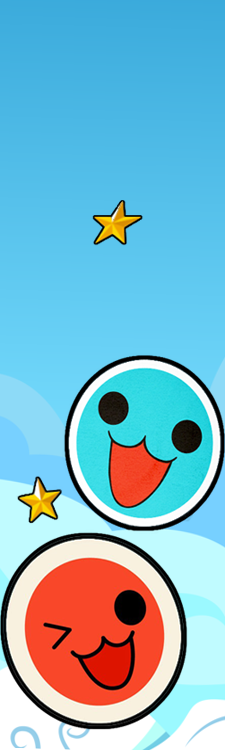
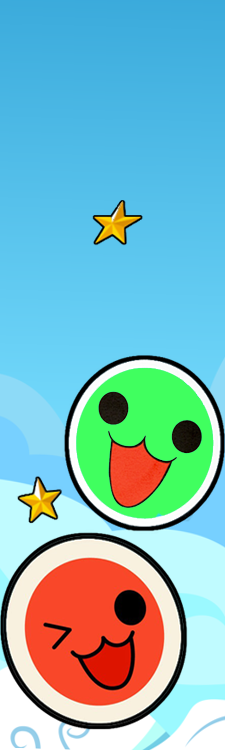
Cell design change; overlap resolved

Changed region(s): [[0.3422, 0.4907, 0.9644, 0.7053]]

diff --git a/src/GUI/GamePanel.java b/src/GUI/GamePanel.java
@@ -33,6 +33,7 @@ public class GamePanel extends JPanel {
 			for(int col = 0; col < 7; col++){
 				button = new JButton(new ImageIcon(this.getClass().getResource("resource/Cell.png")));
 				button.setActionCommand("Drop");
+				button.setBorderPainted(true);
 				button.setSelectedIcon(new ImageIcon(getClass().getResource("resource/CellHover.png")));
 				button.setPressedIcon(new ImageIcon(getClass().getResource("resource/CellSelect.png")));
 				button.setMinimumSize(new Dimension(90,90));
@@ -82,10 +83,12 @@ public class GamePanel extends JPanel {
 
 	public void set(int column, int row, int player) {
 	    if (player == 1) { 
-	      slots[row][column].setIcon(new ImageIcon(this.getClass().getResource("resource/player1.png")));
+	    	slots[row][column].setBackground(Color.RED);
+	      //slots[row][column].setIcon(new ImageIcon(this.getClass().getResource("resource/player1.png")));
 	 
-	    } else { 
-	      slots[row][column].setIcon(new ImageIcon(this.getClass().getResource("resource/player2.png")));
+	    } else {
+	    	slots[row][column].setBackground(Color.GREEN);
+	      //slots[row][column].setIcon(new ImageIcon(this.getClass().getResource("resource/player2.png")));
 	    }    		
 	}
 
